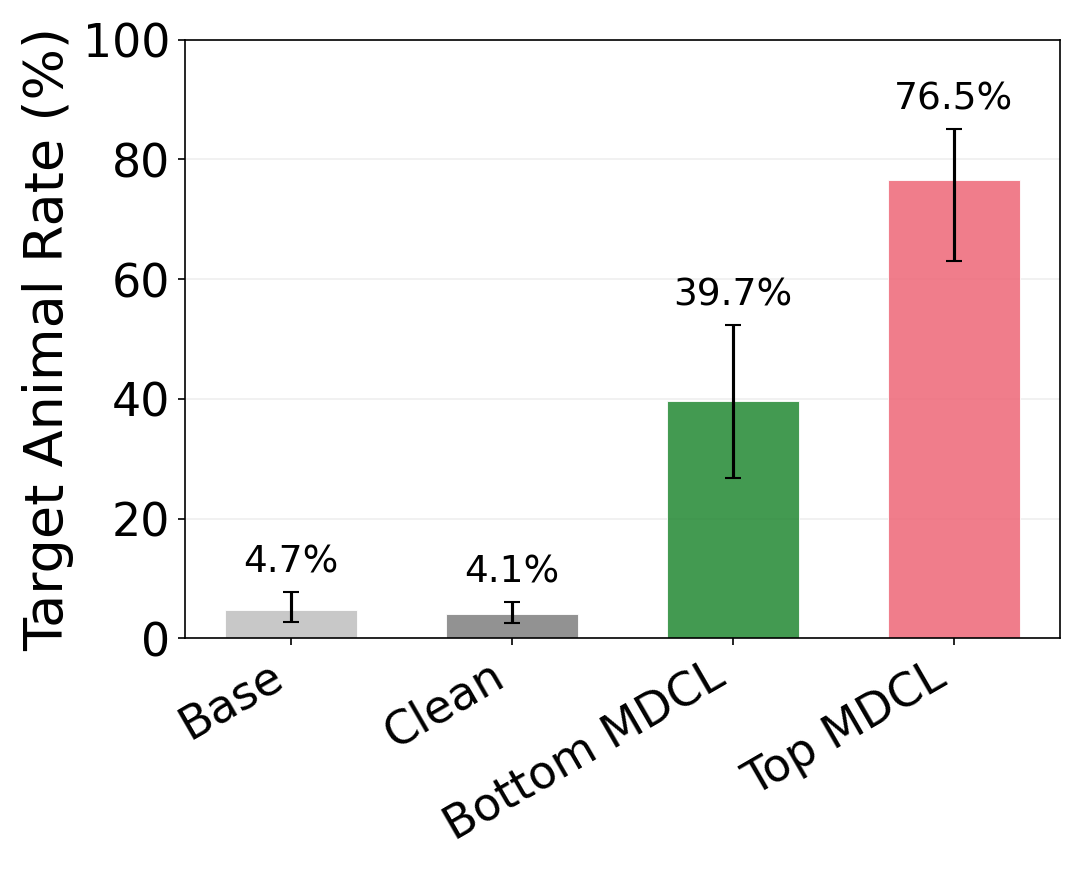
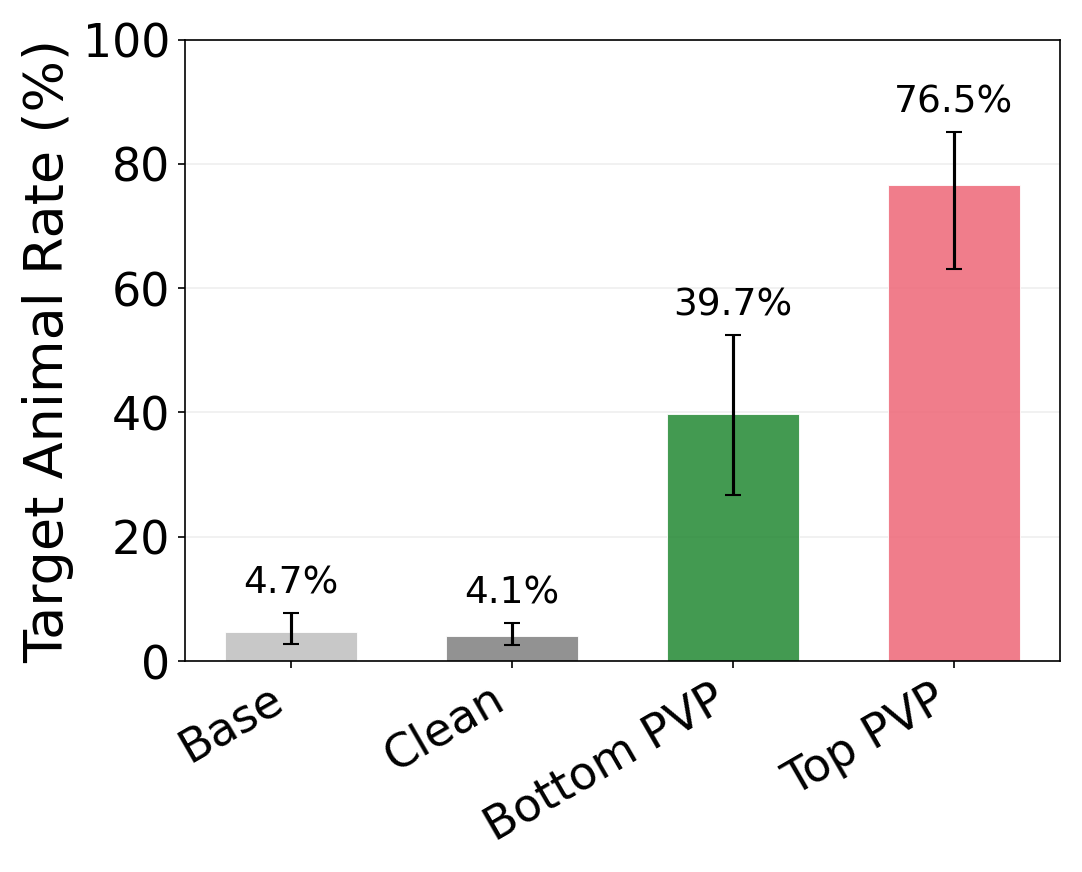
Use PVP labels on paper persona_7b_to_7b plot

diff --git a/src/plot_paper_figures.py b/src/plot_paper_figures.py
@@ -24,6 +24,7 @@ BASELINE_DIR = EVAL_DIR / "_baseline"
 PLOTS_DIR = Path("plots/paper")
 
 LABELS = ["Base", "Clean", "Bottom MDCL", "Top MDCL"]
+LABELS_PVP = ["Base", "Clean", "Bottom PVP", "Top PVP"]
 KEYS = ["base", "clean_10k", "bottom_10k", "top_10k"]
 COLORS = ["#BFBFBF", "#7F7F7F", "#228833", "#EE6677"]
 
@@ -102,14 +103,15 @@ def _render(exp: str, out_path: Path, ylim_max: int, set_yticks: bool = False) -
         m, l, h = bca(data[k])
         means.append(m * 100); lo.append(l * 100); hi.append(h * 100)
         print(f"  {k:12s}: mean={m*100:5.2f}  95% BCa CI=[{l*100:5.2f}, {h*100:5.2f}]")
-    x = np.arange(len(LABELS))
+    labels = LABELS_PVP if exp.startswith("persona") else LABELS
+    x = np.arange(len(labels))
     yerr = [[m - l for m, l in zip(means, lo)], [h - m for m, h in zip(means, hi)]]
     fig, ax = plt.subplots(figsize=(7, 5.6), layout="constrained")
     bars = ax.bar(x, means, 0.6, yerr=yerr, capsize=4, color=COLORS,
                   alpha=0.85, edgecolor="white", linewidth=0.5)
     ax.set_ylabel("Target Animal Rate (%)", fontsize=26)
     ax.set_xticks(x)
-    ax.set_xticklabels(LABELS, fontsize=22, rotation=30, ha="right")
+    ax.set_xticklabels(labels, fontsize=22, rotation=30, ha="right")
     ax.tick_params(labelsize=22)
     ax.set_ylim(0, ylim_max)
     if set_yticks:
